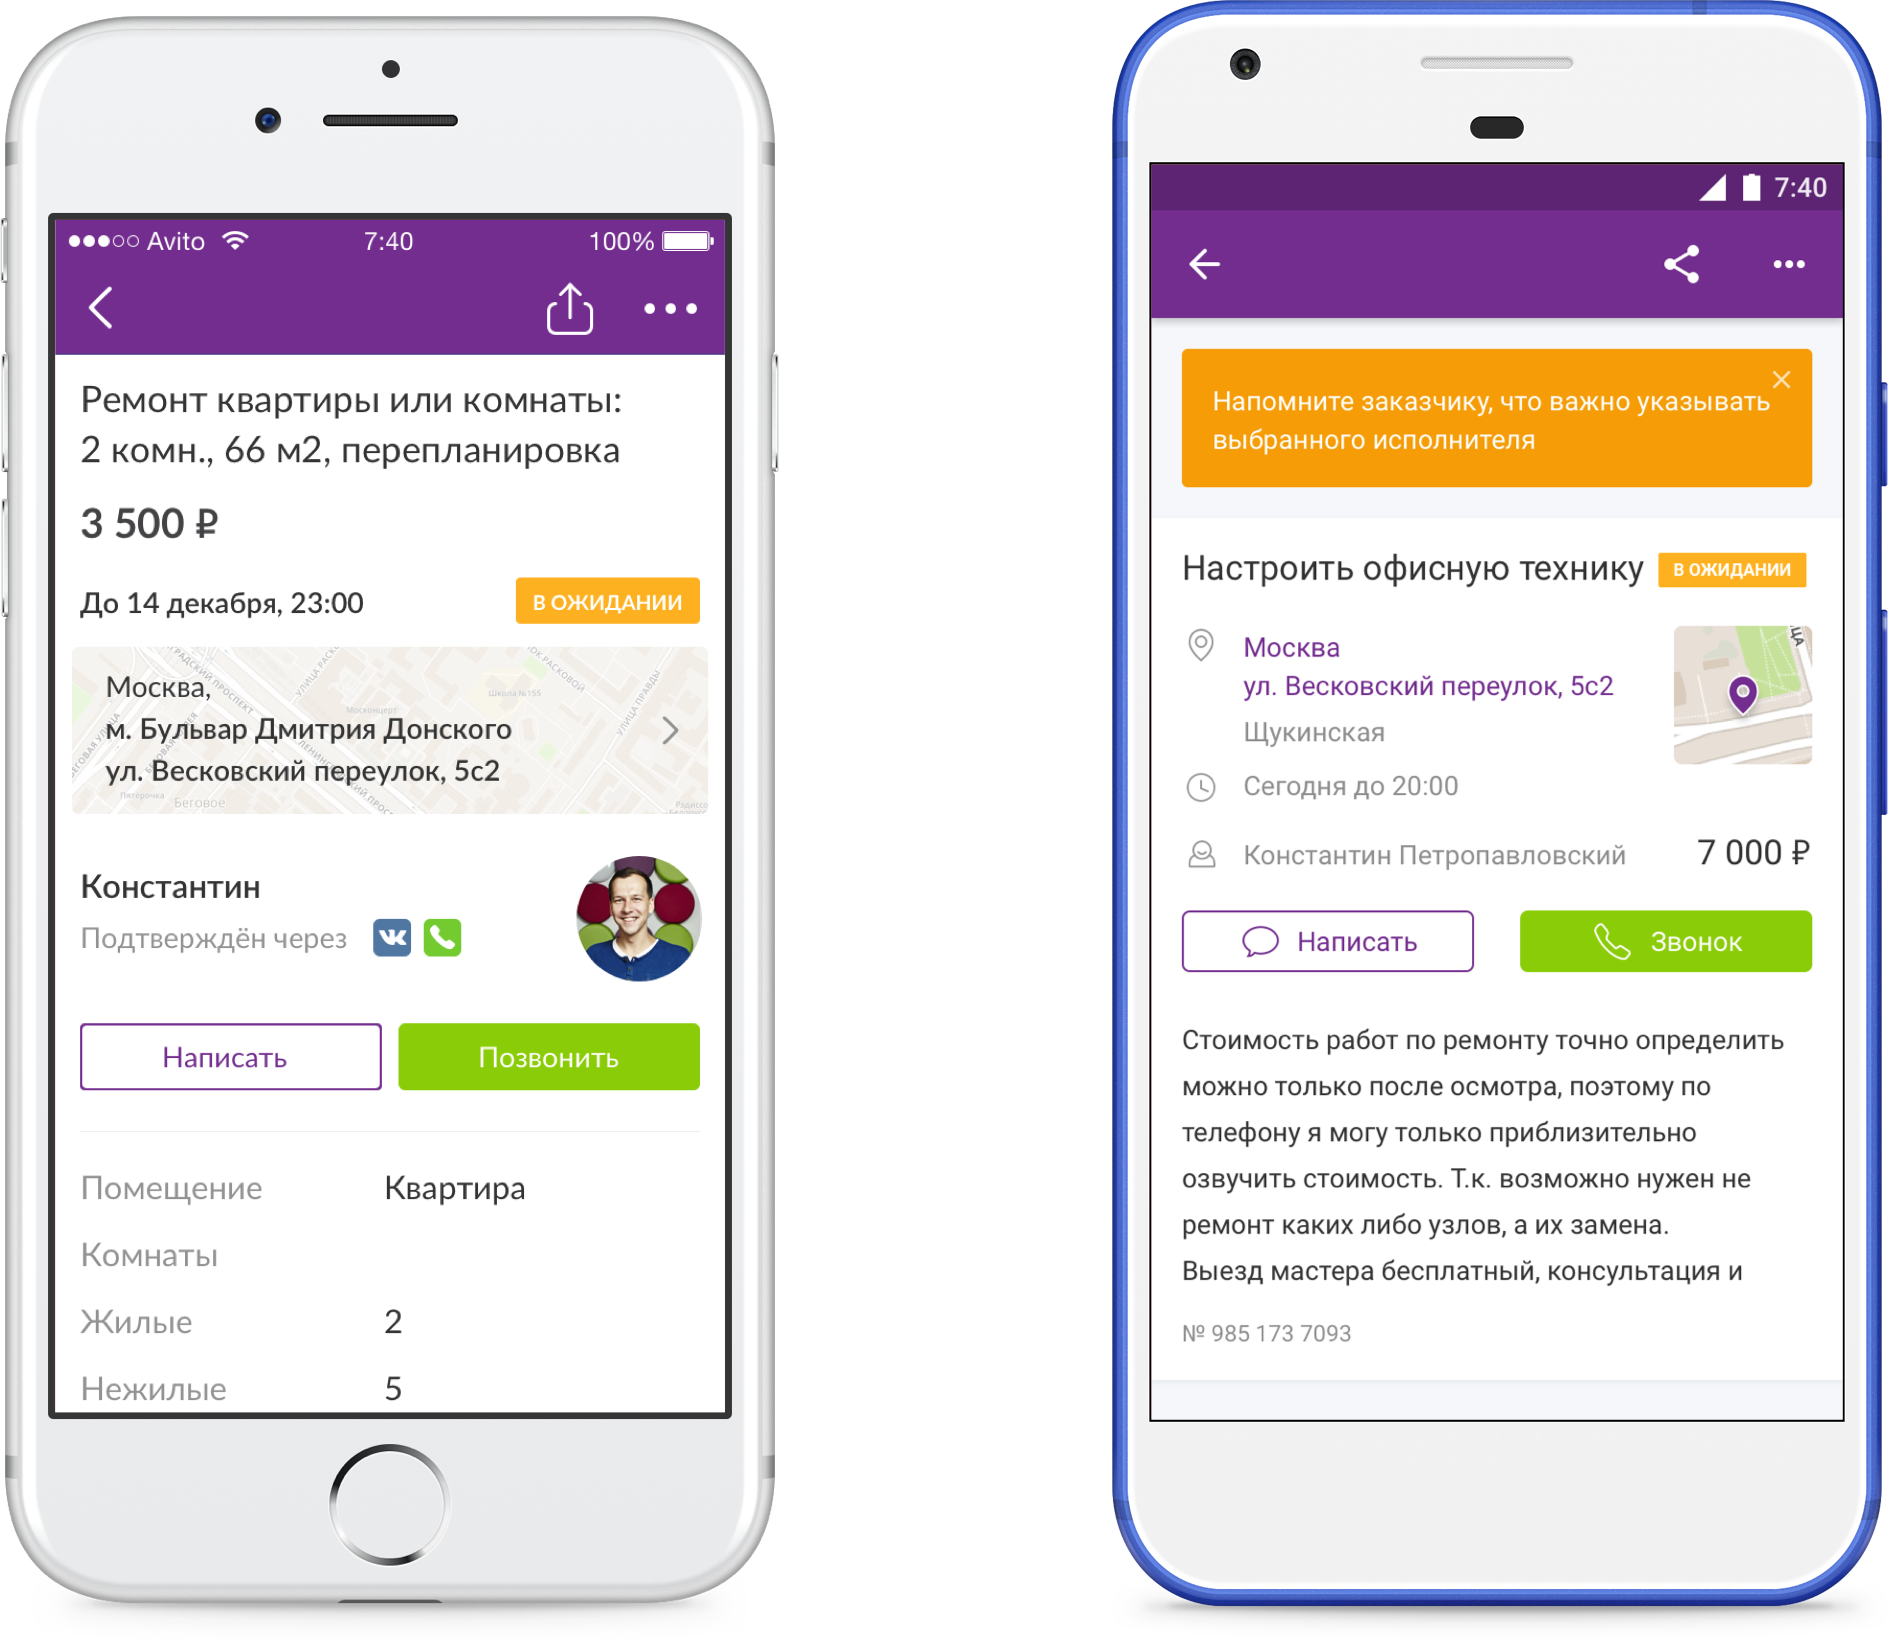
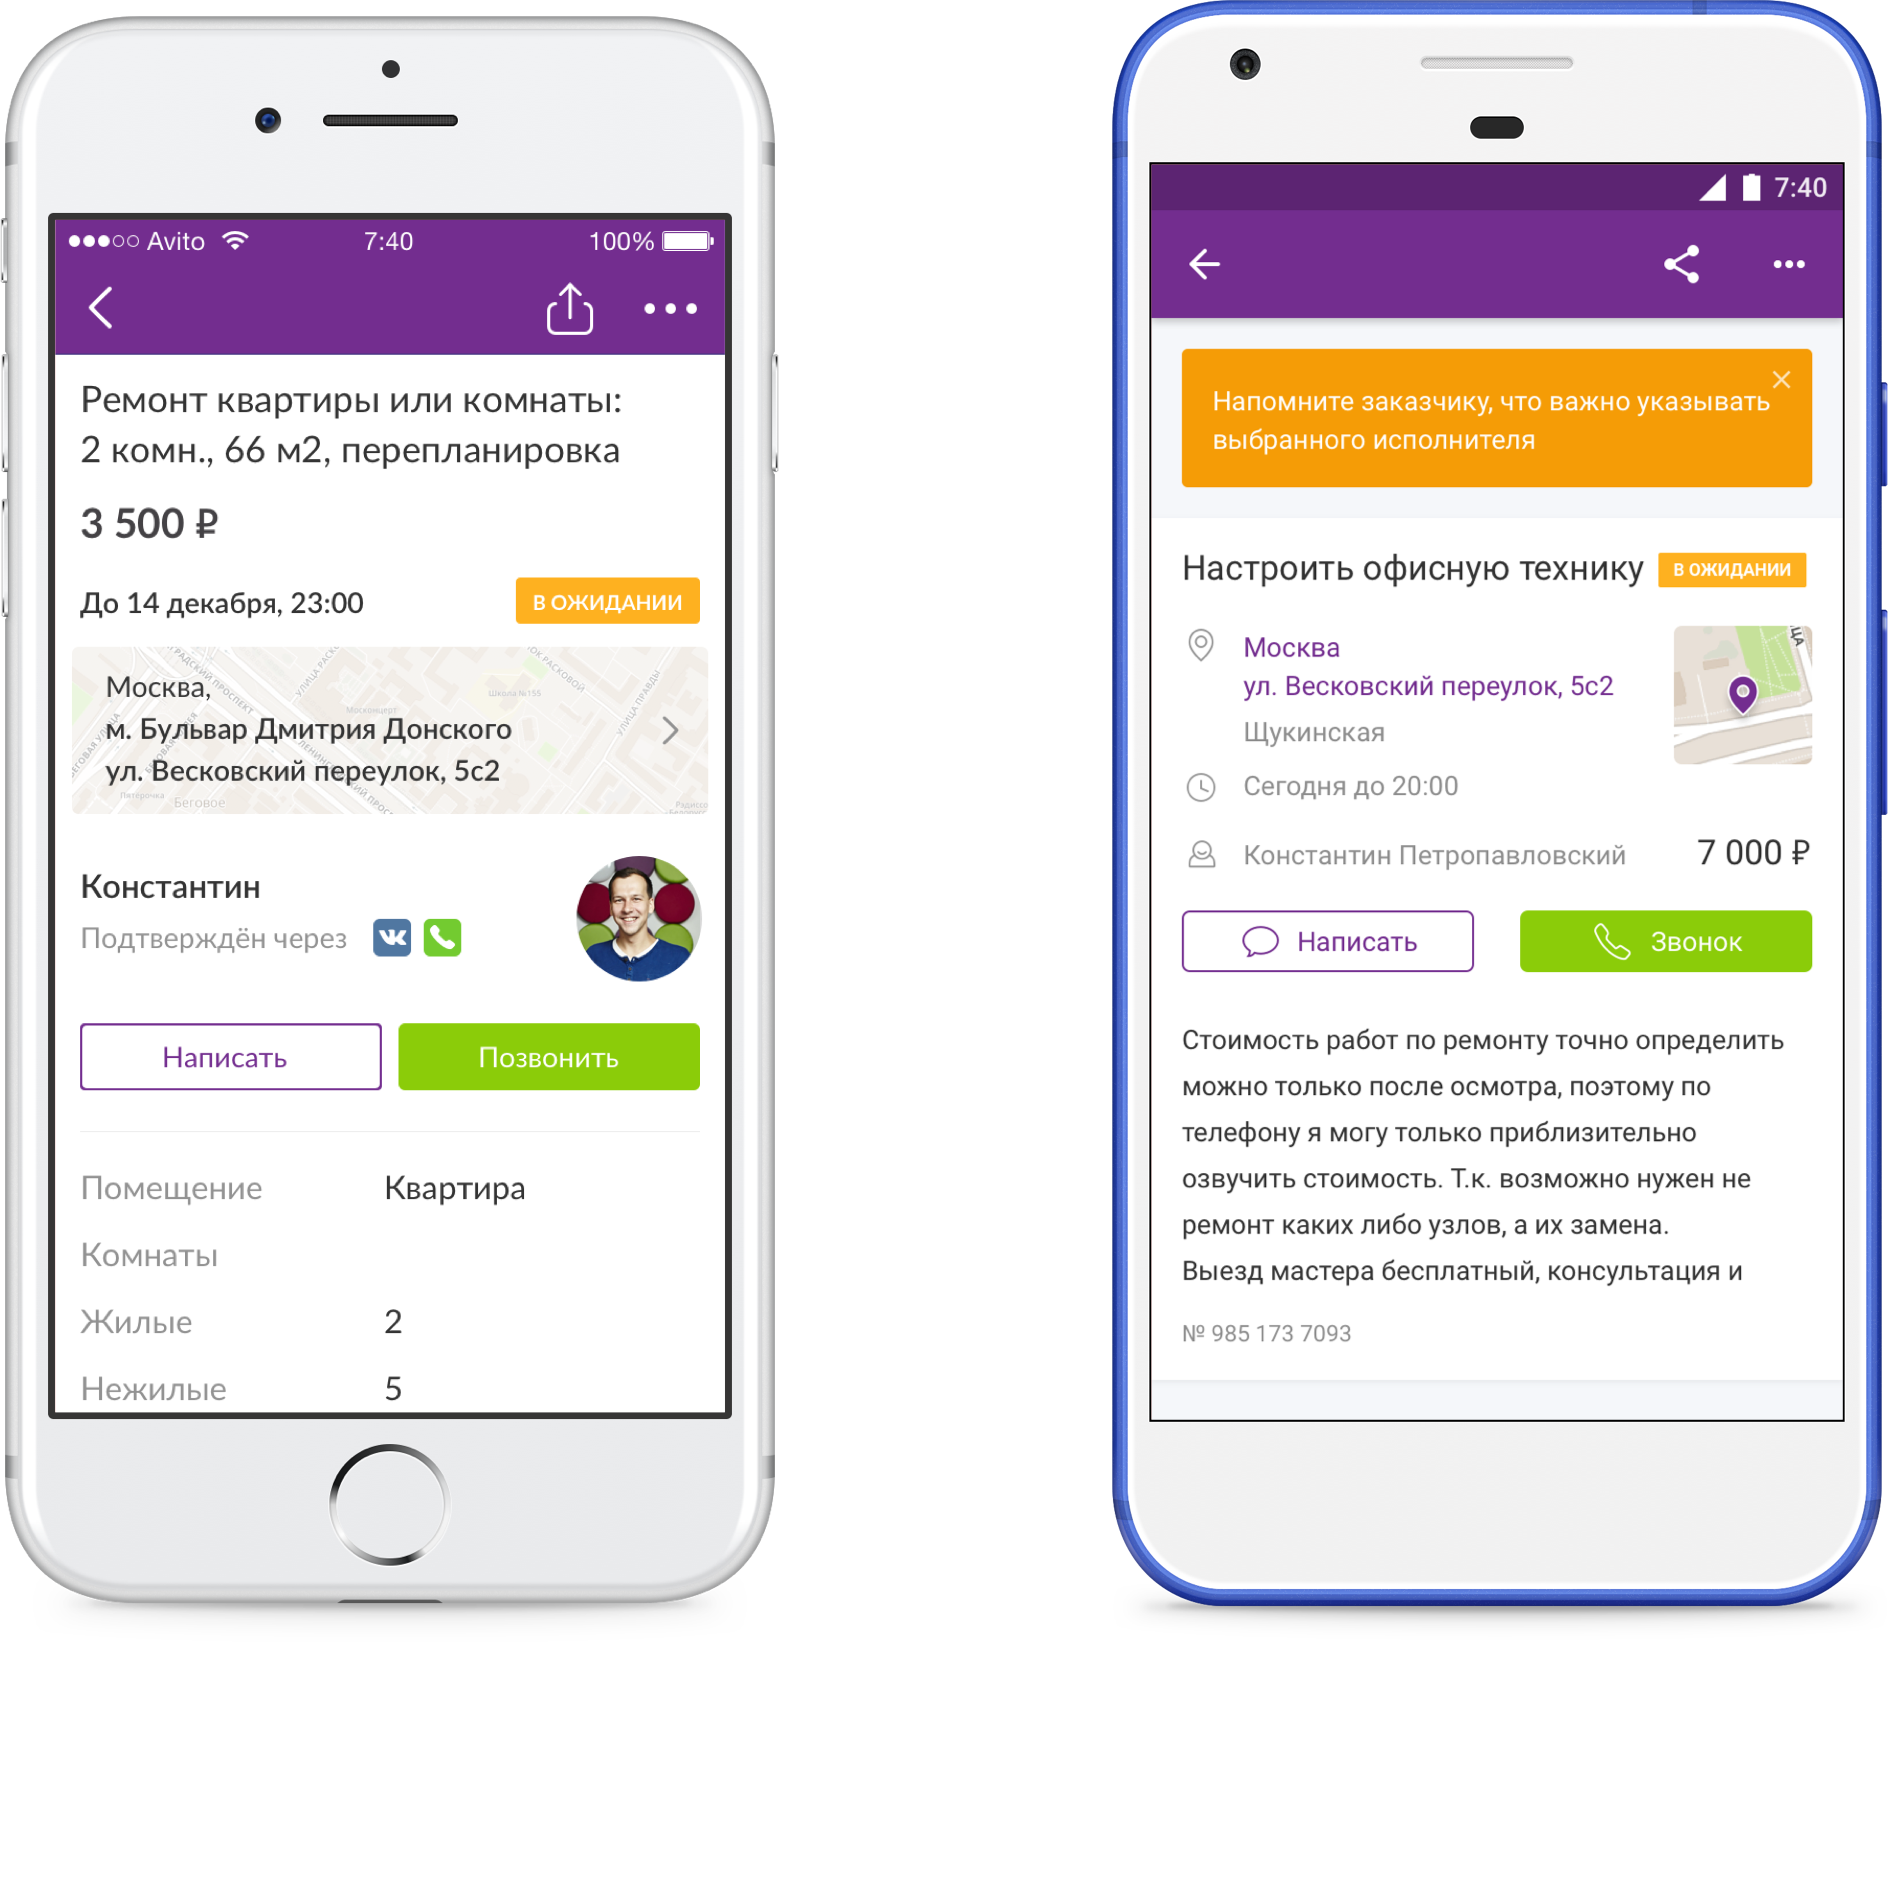
Finished Avito page

diff --git a/new/avito/index.html b/new/avito/index.html
@@ -84,7 +84,58 @@
   <div class="container">
     <div class="image text-center">
       <img src="01_different.png" class="img-fluid">
-      <p>Тестирование гипотез на разныех платформах</p>
+      <p>Тестирование гипотез на разных платформах</p>
+    </div>
+  </div>
+
+  <div class="container">
+    <div class="row">
+      <div class="col-md-8 pad">
+        <h2>Функционал</h2>
+
+        <p>Исполнитель искал, выбирал, оставлял предложения к&nbsp;заказам. В&nbsp;приложении был встроенный мессенджер для переписки с&nbsp;заказчиками.</p>
+      </div>
+    </div>
+  </div>
+
+  <div class="container">
+    <div class="image text-center">
+      <img src="03_tasks.png" class="img-fluid">
+    </div>
+  </div>
+
+  <div class="container">
+    <div class="image text-center">
+      <img src="05_messenger.png" class="img-fluid">
+      <p>Полноценный мессенджер</p>
+    </div>
+  </div>
+
+  <div class="container">
+    <div class="row">
+      <div class="col-md-8 pad">
+        <p>Был доступен функционал добавления объявления на&nbsp;сайт Avito в&nbsp;раздел предложения Услуг. Это была копия основного приложения компании. Кроме главного отличия&nbsp;&mdash; статистика по&nbsp;объявлениям.</p>
+      </div>
+    </div>
+  </div>
+
+  <div class="container">
+    <div class="image text-center">
+      <img src="06_item.png" class="img-fluid">
+    </div>
+  </div>
+
+  <div class="container">
+    <div class="row">
+      <div class="col-md-8 pad">
+        <p>Проработали, отрисовали, но не успели внедрить несколько метрик для анализа данных.</p>
+      </div>
+    </div>
+  </div>
+
+  <div class="container">
+    <div class="image text-center">
+      <img src="06_nps.png" class="img-fluid">
     </div>
   </div>
 
@@ -102,7 +153,7 @@
   <div class="container">
     <div class="image text-center">
       <img src="04_filter.png" class="img-fluid">
-      <p>Рассказываем о функционале</p>
+      <p>Рассказываем о возможности сохранить параметры фильтрации</p>
     </div>
   </div>
 
@@ -182,15 +233,15 @@
   <div class="container">
     <div class="row">
       <div class="col-md-8 pad">
-        <h2>Параллельно</h2>
-        <p>В основное приложение Avit&oacute; добавили функционал заказчика.</p>
+        <h2>Заказчики</h2>
+        <p>В основное приложение Avit&oacute; добавили функционал заказчика,&nbsp;где пользователь мог оставить запрос на&nbsp;выполнение задач.</p>
       </div>
     </div>
   </div>
 
   <div class="container">
     <div class="image text-center">
-      <img src="05_android.png" class="img-fluid">
+      <img src="07_android.png" class="img-fluid">
     </div>
   </div>
 
